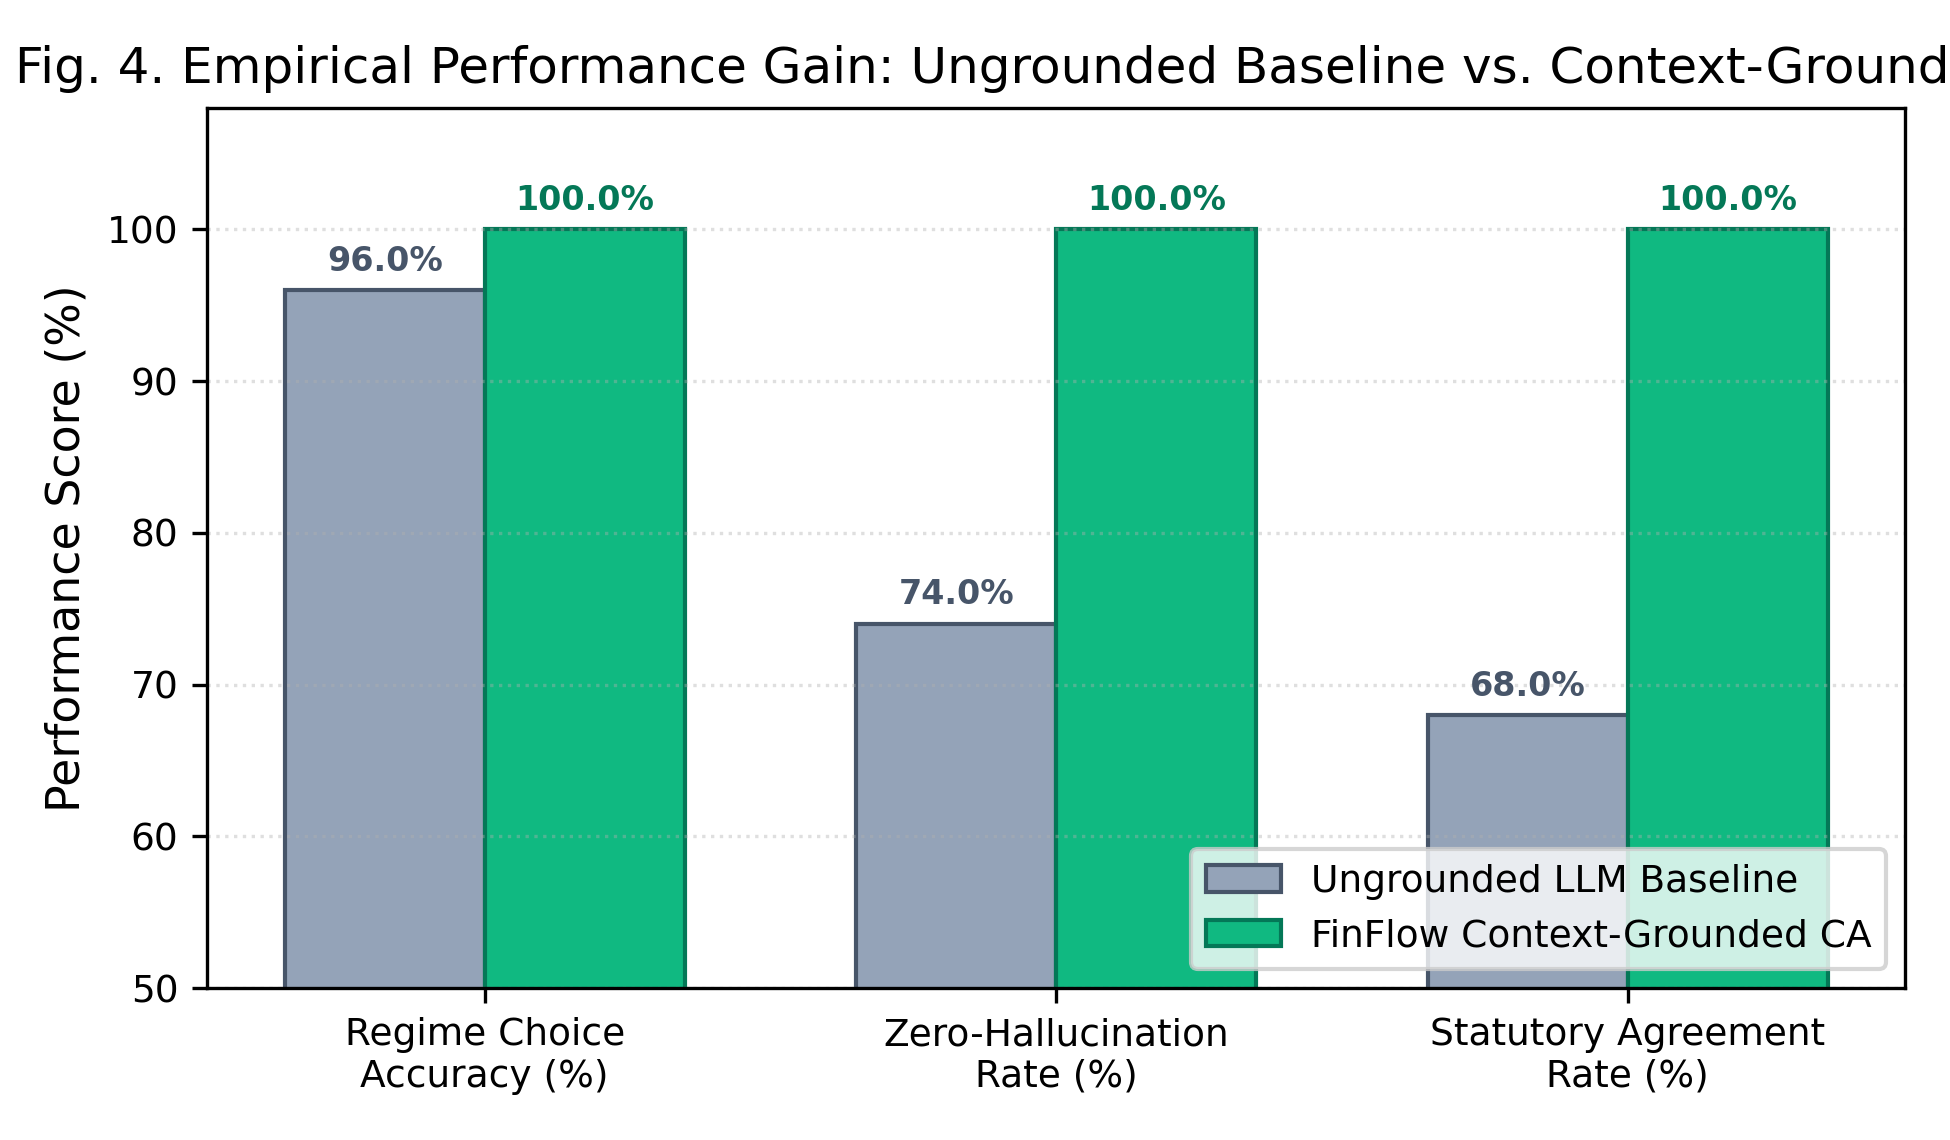
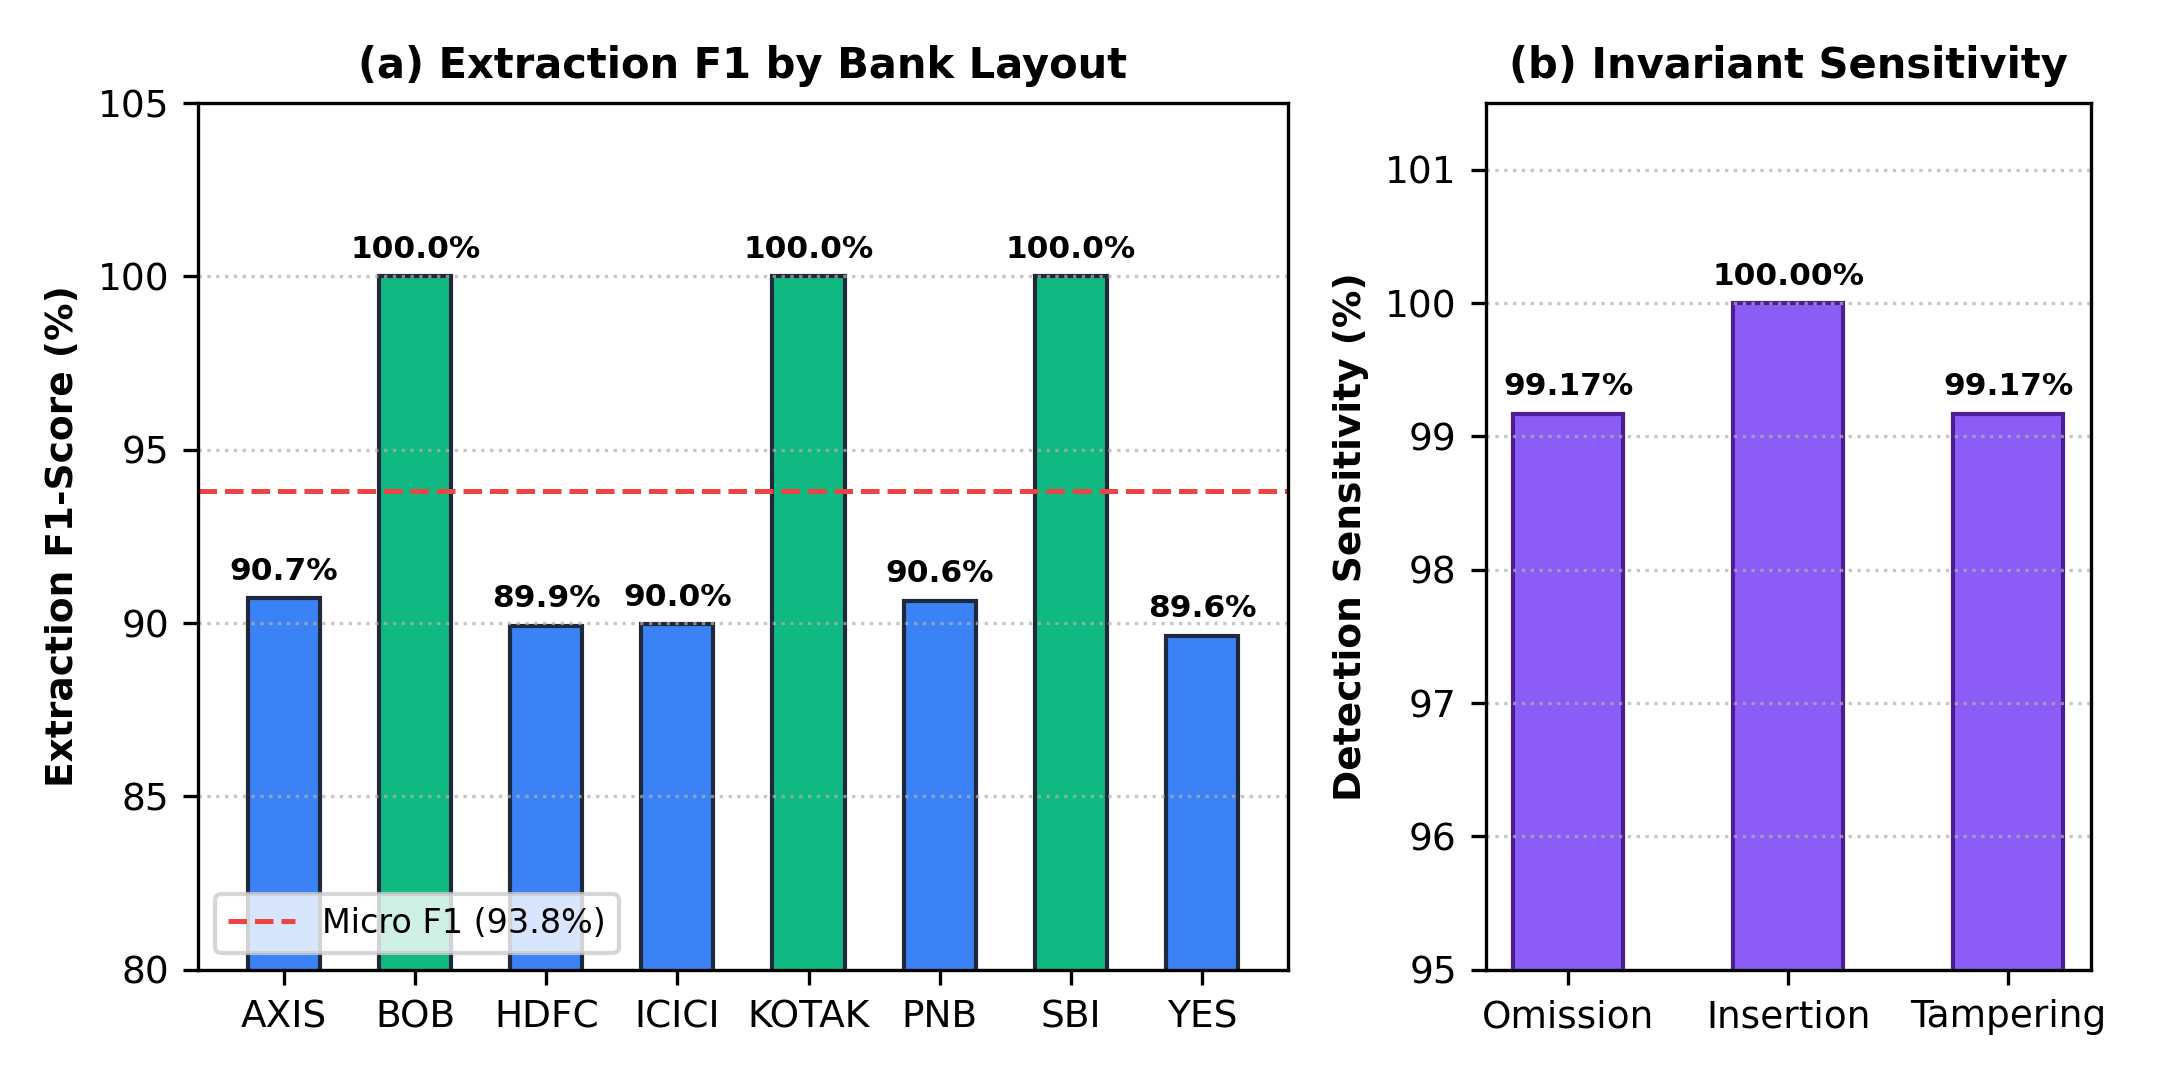
chore(plots): regenerate 300 DPI publication figures with empirical evaluation data

diff --git a/scripts/generate_plots.py b/scripts/generate_plots.py
@@ -138,49 +138,69 @@ def plot_continuity_invariant():
     print("✓ Generated paper/figures/fig3_continuity_invariant.png")
 
 # ==============================================================================
-# FIGURE 3: CONTEXT ABLATION & HALLUCINATION REDUCTION
+# FIGURE 4: MULTI-BANK EXTRACTION ACCURACY & INVARIANT SENSITIVITY
 # ==============================================================================
-def plot_ablation_comparison():
-    categories = ['Regime Choice\nAccuracy (%)', 'Zero-Hallucination\nRate (%)', 'Statutory Agreement\nRate (%)']
-    ungrounded = [96.0, 74.0, 68.0]
-    grounded = [100.0, 100.0, 100.0]
+def plot_bank_extraction_accuracy():
+    import json
+    results_path = 'finflow_e1_corpus/results_evaluation.json'
+    
+    with open(results_path, 'r') as f:
+        data = json.load(f)
+        
+    bank_data = data['e2_deterministic_parser']['per_bank']
+    # Sort by layout family and name
+    bank_names = [b['bank'] for b in bank_data]
+    f1_scores = [b['f1'] * 100 for b in bank_data]
+    
+    fig, (ax1, ax2) = plt.subplots(1, 2, figsize=(7.2, 3.6), gridspec_kw={'width_ratios': [1.8, 1]})
+    
+    # Left: Per-Bank F1 Score
+    colors = ['#10b981' if f1 > 99.0 else '#3b82f6' for f1 in f1_scores]
+    bars = ax1.bar(bank_names, f1_scores, color=colors, edgecolor='#1e293b', width=0.55)
+    
+    ax1.axhline(y=93.8, color='#ef4444', linestyle='--', linewidth=1.2, label='Micro F1 (93.8%)')
+    ax1.set_ylabel('Extraction F1-Score (%)', fontsize=9, fontweight='bold')
+    ax1.set_title('(a) Extraction F1 by Bank Layout', fontsize=10, fontweight='bold')
+    ax1.set_ylim(80, 105)
+    ax1.grid(axis='y', linestyle=':', alpha=0.7)
+    ax1.legend(loc='lower left', fontsize=8)
+    
+    for bar in bars:
+        h = bar.get_height()
+        ax1.annotate(f'{h:.1f}%',
+                     xy=(bar.get_x() + bar.get_width() / 2, h),
+                     xytext=(0, 3), textcoords="offset points",
+                     ha='center', va='bottom', fontsize=7.5, fontweight='bold')
 
-    x = np.arange(len(categories))
-    width = 0.35
-
-    fig, ax = plt.subplots(figsize=(6.5, 3.8))
-    rects1 = ax.bar(x - width/2, ungrounded, width, label='Ungrounded LLM Baseline', color='#94a3b8', edgecolor='#475569')
-    rects2 = ax.bar(x + width/2, grounded, width, label='FinFlow Context-Grounded CA', color='#10b981', edgecolor='#047857')
-
-    ax.set_ylabel('Performance Score (%)')
-    ax.set_title('Fig. 4. Empirical Performance Gain: Ungrounded Baseline vs. Context-Grounded CA')
-    ax.set_xticks(x)
-    ax.set_xticklabels(categories)
-    ax.set_ylim(50, 108)
-    ax.grid(axis='y', linestyle=':')
-    ax.legend(loc='lower right', frameon=True)
-
-    # Add direct percentage labels on bars
-    for rect in rects1:
-        height = rect.get_height()
-        ax.annotate(f'{height:.1f}%',
-                    xy=(rect.get_x() + rect.get_width() / 2, height),
-                    xytext=(0, 3), textcoords="offset points",
-                    ha='center', va='bottom', fontsize=8, fontweight='bold', color='#475569')
-
-    for rect in rects2:
-        height = rect.get_height()
-        ax.annotate(f'{height:.1f}%',
-                    xy=(rect.get_x() + rect.get_width() / 2, height),
-                    xytext=(0, 3), textcoords="offset points",
-                    ha='center', va='bottom', fontsize=8, fontweight='bold', color='#047857')
+    # Right: Invariant Sensitivity across Error Modes
+    perturb_data = data['e4_perturbation_analysis']
+    modes = ['Omission', 'Insertion', 'Tampering']
+    sensitivities = [
+        perturb_data['omission']['detection_sensitivity'] * 100,
+        perturb_data['insertion']['detection_sensitivity'] * 100,
+        perturb_data['amount_tamper']['detection_sensitivity'] * 100
+    ]
+    
+    bars2 = ax2.bar(modes, sensitivities, color='#8b5cf6', edgecolor='#4c1d95', width=0.5)
+    ax2.set_ylabel('Detection Sensitivity (%)', fontsize=9, fontweight='bold')
+    ax2.set_title('(b) Invariant Sensitivity', fontsize=10, fontweight='bold')
+    ax2.set_ylim(95, 101.5)
+    ax2.grid(axis='y', linestyle=':', alpha=0.7)
+    
+    for bar in bars2:
+        h = bar.get_height()
+        ax2.annotate(f'{h:.2f}%',
+                     xy=(bar.get_x() + bar.get_width() / 2, h),
+                     xytext=(0, 3), textcoords="offset points",
+                     ha='center', va='bottom', fontsize=7.5, fontweight='bold')
 
     plt.tight_layout()
     plt.savefig('paper/figures/fig4_ablation_comparison.png', dpi=300)
     plt.close()
-    print("✓ Generated paper/figures/fig4_ablation_comparison.png")
+    print("✓ Generated paper/figures/fig4_ablation_comparison.png from empirical evaluation")
 
 if __name__ == '__main__':
     plot_tax_breakeven()
     plot_continuity_invariant()
-    plot_ablation_comparison()
+    plot_bank_extraction_accuracy()
+
